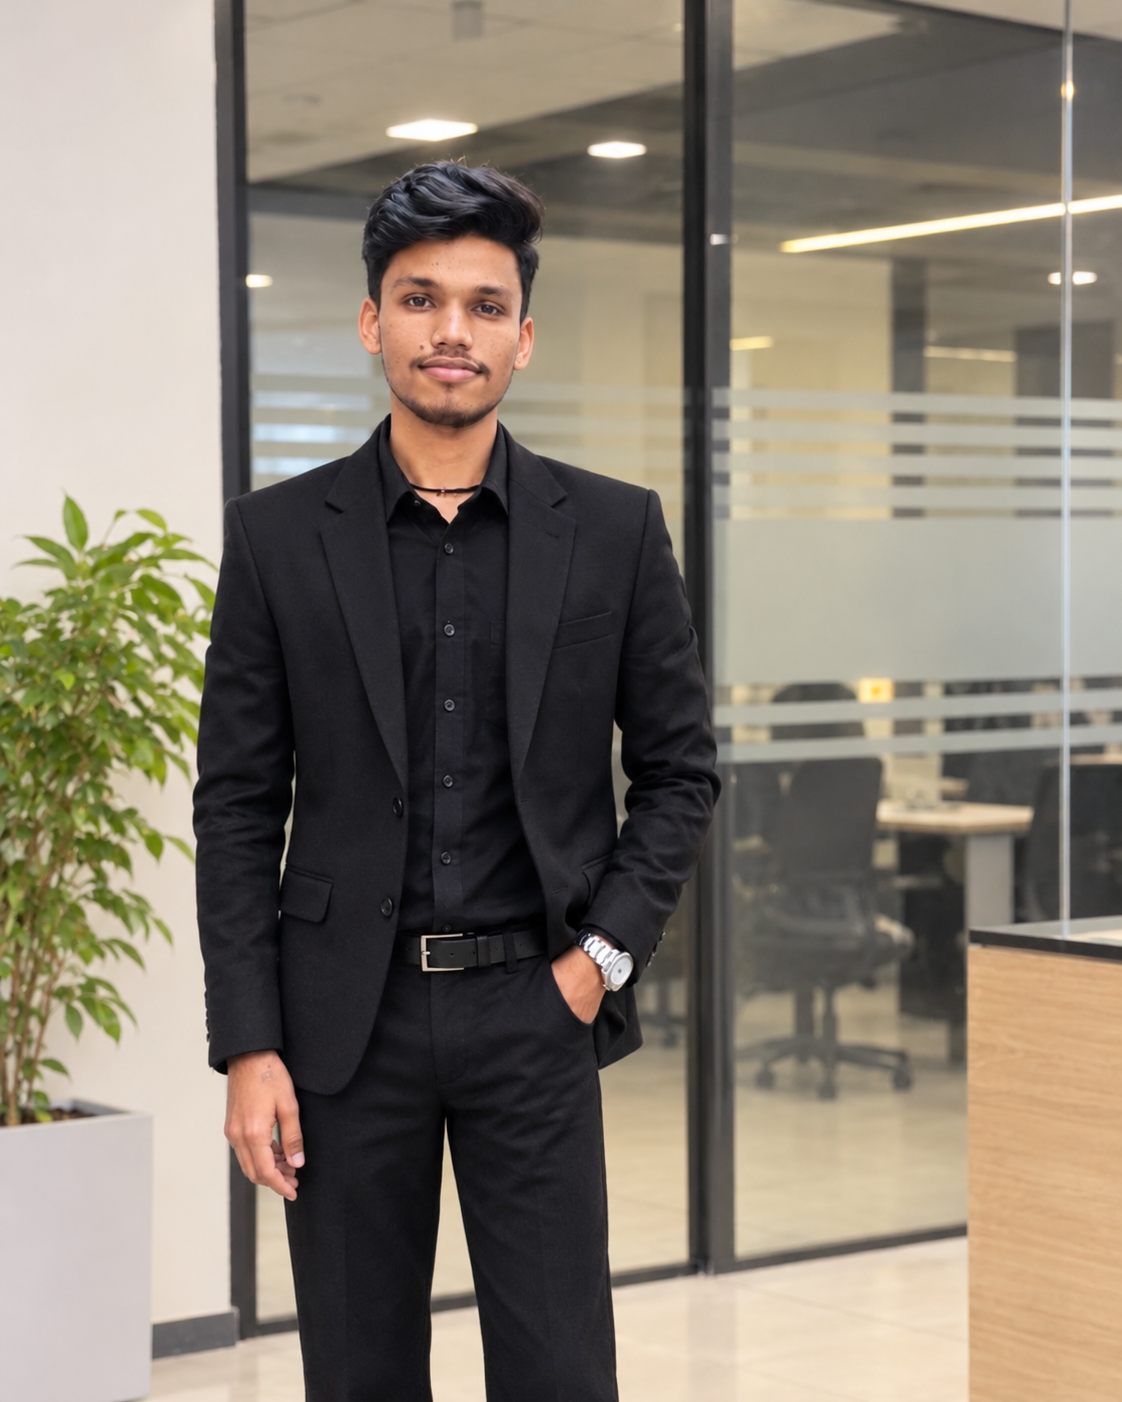
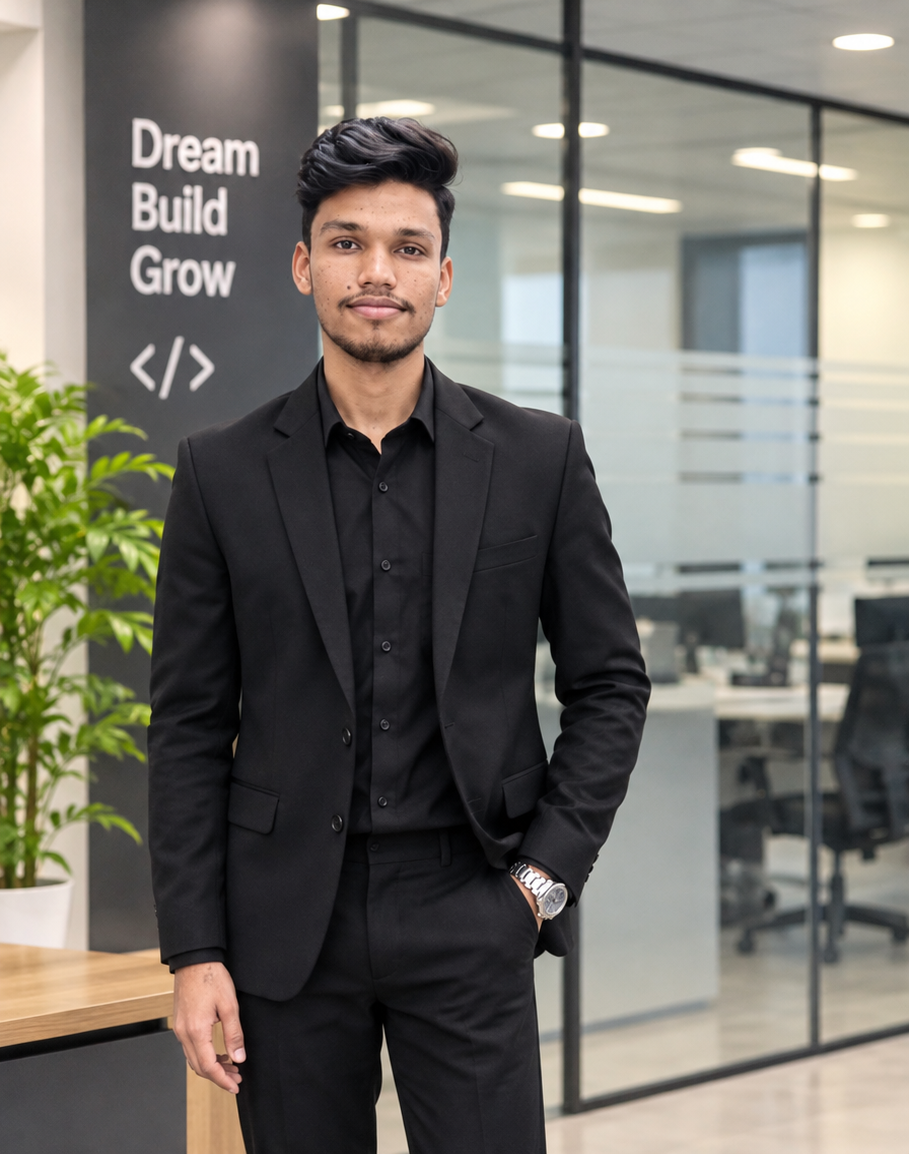
feat: replace hero portrait with crisp corporate office close-up

diff --git a/src/sections/Hero.css b/src/sections/Hero.css
@@ -281,7 +281,7 @@
   width: 100%;
   height: 100%;
   object-fit: cover;
-  object-position: center 8%;
+  object-position: center 6%;
   filter: contrast(1.03) brightness(1.02);
   transition: transform var(--transition-slow), filter var(--transition-slow);
 }
